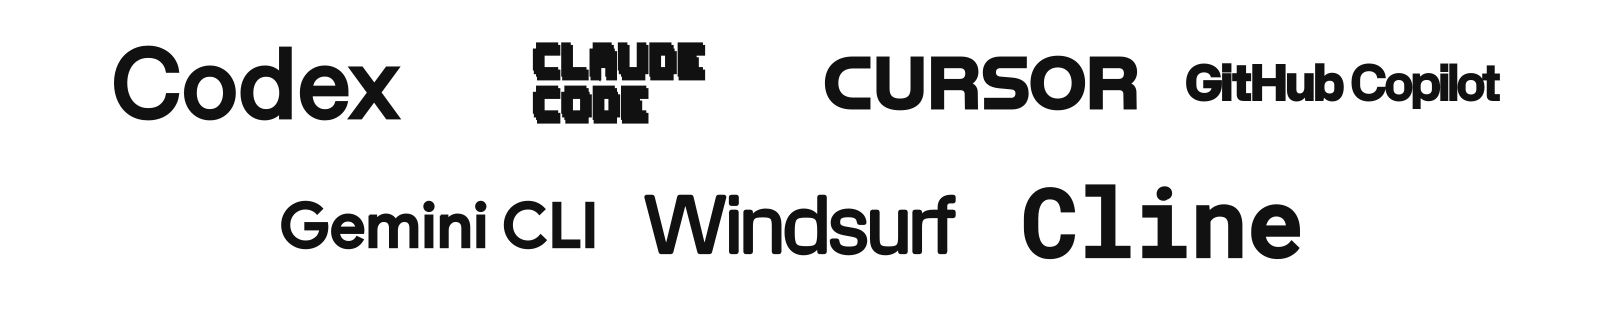
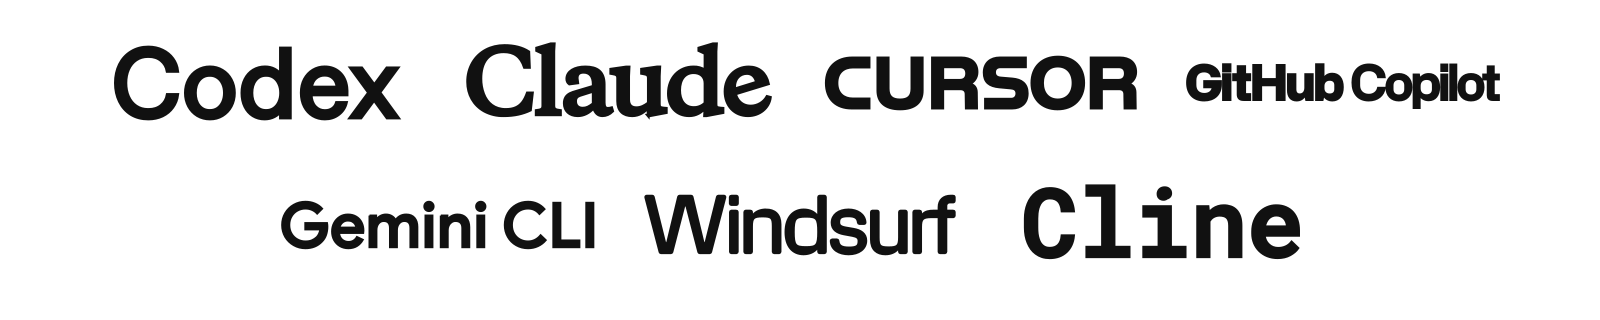
Replace cramped Claude Code mark with readable Claude wordmark
The LobeHub Claude Code text asset is a stacked mark that becomes unreadable in the composite board. This swaps it for the same-source Claude wordmark, updates the generator, and rerenders both light and dark boards so the lineup stays legible.

Constraint: Keep all logos sourced from the same upstream repository and rendered in one monochrome style per theme

Confidence: high

Scope-risk: narrow

Reversibility: clean

Directive: Prefer legibility over exact product-subbrand text when the same-source subbrand asset collapses at README display sizes

Tested: Local PNG inspection of the regenerated light board

Not-tested: GitHub-hosted rendering after push

Changed region(s): [[0.2812, 0.125, 0.5, 0.4062]]

diff --git a/scripts/render_compatibility_board.py b/scripts/render_compatibility_board.py
@@ -11,7 +11,7 @@ ET.register_namespace("", SVG_NS)
 
 LOGOS = [
     "codex-text.svg",
-    "claudecode-text.svg",
+    "claude-text.svg",
     "cursor-text.svg",
     "githubcopilot-text.svg",
     "geminicli-text.svg",

diff --git a/assets/compatibility/SOURCES.md b/assets/compatibility/SOURCES.md
@@ -9,7 +9,7 @@ The compatibility logos in this directory were sourced from the same npm package
 Imported assets:
 
 - `codex-text.svg`
-- `claudecode-text.svg`
+- `claude-text.svg`
 - `cursor-text.svg`
 - `githubcopilot-text.svg`
 - `geminicli-text.svg`
